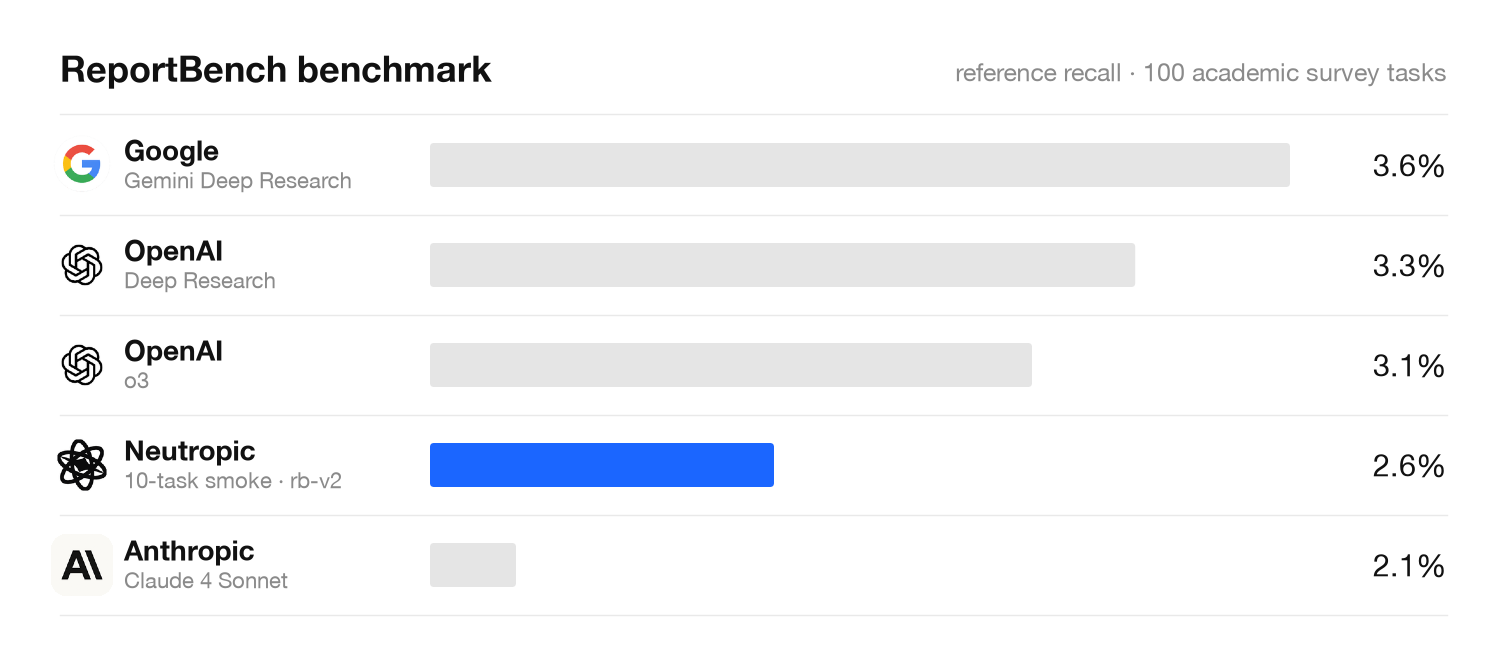
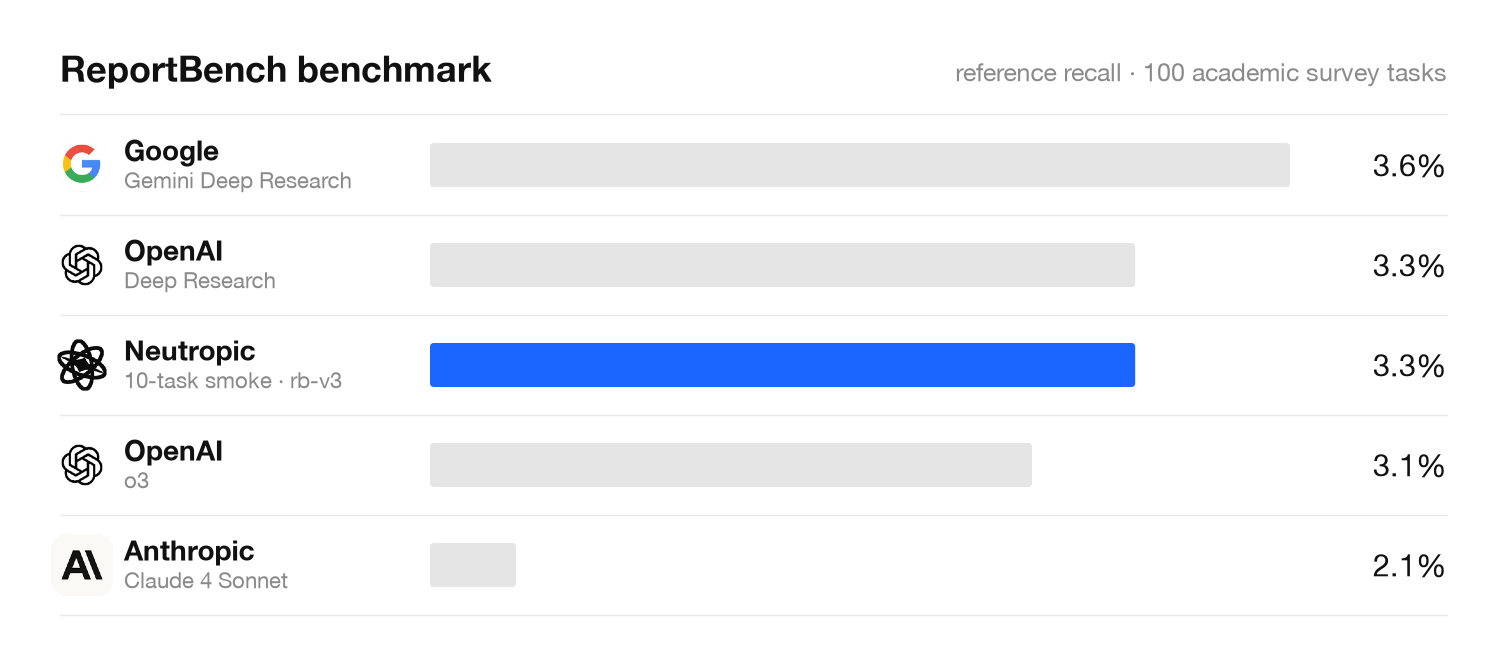
Add ReportBench rb-v3 smoke results

diff --git a/reportbench/results/rb-v3-smoke10/README.md b/reportbench/results/rb-v3-smoke10/README.md
@@ -1,0 +1,46 @@
+# rb-v3 — 10-task smoke, "true full" preset (WS0 measurement fix; L1, 2026-09-14)
+
+Same first 10 tasks as `rb-v1-smoke10` / `rb-v2-smoke10`, production core, Gemini. Changes vs v2 (from
+`docs/benchmark-improvement-plan.md` WS0): the `full` preset is now the product's **Deep** effort (deep second research
+pass, reviewer forced, 48 steps) and the runner actually passes a review provider — v1/v2 rows never ran the reviewer.
+Also: the eval token is refreshed in place by a background thread every 20 min (tasks now take 20–100 min), and the
+runner appends each row as it finishes. **Smoke, not a result** — 10 of 100 tasks, internal (L1) judge.
+
+All 10 tasks scored (v2: 8). Mean P 0.182 / R 0.033 / F1 0.055; cite-match 0.78, cited-statement accuracy 0.89.
+v2 on its 8 scored tasks: P 0.155 / R 0.026 / F1 0.042, cite-match 0.60, accuracy 0.80. Total $2.69 (v2 $3.56),
+mean 49 min per task (v2 21 min).
+
+| task | prompt cutoff | refs | matched/gold | P | R | F1 | cite-match | cited acc | s | $ | v2 P / R |
+|---|---|---|---|---|---|---|---|---|---|---|---|
+| 2312.04861 | April 2025 | 30 | 14/277 | 0.467 | 0.054 | 0.097 | 0.55 | 0.775 | 1636 | 0.47 | 0.231 / 0.022 |
+| 2308.06419 | — | 20 | 6/106 | 0.300 | 0.057 | 0.095 | 0.65 | 0.825 | 1623 | 0.21 | 0.056 / 0.009 |
+| 2308.15985 | August 2023 | 10 | 2/155 | 0.200 | 0.013 | 0.024 | 0.75 | 0.875 | 2536 | 0.20 | 0.333 / 0.045 |
+| 2402.10079 | March 2025 | 26 | 3/148 | 0.115 | 0.020 | 0.035 | 0.70 | 0.850 | 1206 | 0.25 | 0.222 / 0.020 |
+| 2108.09522 | August 2021 | 15 | 10/47 | 0.667 | 0.170 | 0.271 | 0.67 | 0.833 | 3482 | 0.24 | failed |
+| 2108.09091 | August 2021 | 12 | 0/83 | 0.000 | 0.000 | 0.000 | 0.90 | 0.950 | 3871 | 0.26 | 0.059 / 0.036 |
+| 2006.00648 | November 2020 | 8 | 0/60 | 0.000 | 0.000 | 0.000 | 0.75 | 0.875 | 1969 | 0.40 | 0.200 / 0.017 |
+| 2204.07974 | April 2022 | 27 | 2/104 | 0.074 | 0.019 | 0.030 | 1.00 | 1.000 | 5997 | 0.24 | failed |
+| 2302.10588 | — | 6 | 0/65 | 0.000 | 0.000 | 0.000 | 0.80 | 0.900 | 3192 | 0.17 | 0.100 / 0.046 |
+| 2408.14199 | November 2024 | 5 | 0/64 | 0.000 | 0.000 | 0.000 | 1.00 | 1.000 | 3982 | 0.24 | 0.040 / 0.016 |
+| **mean (10 scored)** | | 15.9 | | **0.182** | **0.033** | 0.055 | 0.78 | 0.888 | 2949 | 0.27 | 0.155 / 0.026 (8) |
+## What moved
+
+- **Precision and citation faithfulness rose across the board** (P 0.155 → 0.182, cite-match 0.60 → 0.78, cited-statement
+  accuracy 0.80 → 0.89): the reviewer + deep pass prune weakly supported statements and unused sources. The reference list
+  now contains only sources actually cited (15.9 per report vs 22.1), which is also why recall barely moved.
+- **Best task ever**: 2108.09522 (spatio-temporal traffic, 47 gold refs) P 0.667 / R 0.170 — every one of its 15
+  references predates the prompt's cutoff (August 2021).
+- **Four tasks scored zero** (2108.09091, 2006.00648, 2302.10588, 2408.14199). Root causes, from the reports:
+  1. **The prompt's date constraint is ignored.** 8 of 10 prompts say "all referenced papers must have been published
+     before <month year>"; 41 of the 172 cited references (24 %) are newer than that — 9/12 on 2108.09091, 25/37 on
+     2204.07974, 5/13 on 2308.15985. Those are exactly the worst-scoring tasks. The retrieval stack ranks by relevance /
+     recency with no year filter, and nothing drops newer sources at citation time.
+  2. **Off-topic and tooling references** survive into the bibliography (EEG emotion recognition and MOOC-dropout papers in a
+     traffic-forecasting survey; NumPy and the PRISMA statement in a LiDAR-localization survey).
+  3. **Too few citations** on some tasks (5–8 references against 60–65 gold) — the deep pass trims rather than widens.
+- **Time doubled for a small gain**: the deep pass + reviewer take tasks from 21 to 49 min (one task 100 min). At 100 tasks
+  that is ~80 h per run — the 10-minute task budget (WS4) and a wider reference budget with citation snowballing (WS1)
+  are the next levers, together with enforcing the prompt's date window (new WS1 item).
+
+Files: `full.summary.json` (runner summary). Per-task rows with trajectories stay in the API repo's `benchmark_runs/`
+(not published).

diff --git a/README.md b/README.md
@@ -13,7 +13,7 @@ together track the agent's maturity from factual search to end-to-end science:
 | 04 · Science | [AstaBench](https://allenai.org/asta/bench) | End-to-end scientific agent — literature, code & execution, data analysis, discovery (2,400+ problems) | [`astabench/`](./astabench/) |
 
 > **Status (2026-09-14):** SimpleQA has measured results on a fixed 100-question
-> subset. ReportBench (two runs), DeepResearch Bench II and AstaBench LitQA2 have
+> subset. ReportBench (three runs), DeepResearch Bench II and AstaBench LitQA2 have
 > **10-task smokes** (L1 — wiring and cost checks, not results to quote). Every
 > "Projected" table is a target, not a measurement, and is replaced by measured
 > values as runs land in `results/`.
@@ -21,7 +21,7 @@ together track the agent's maturity from factual search to end-to-end science:
 > | Benchmark | Current (L1 smoke) | Best published |
 > |-----------|--------------------|----------------|
 > | SimpleQA | 0.90 accuracy (subset 100) | 95.3 % |
-> | ReportBench | recall 0.026 · precision 0.155 (rb-v2, 8 of 10 tasks) | recall 0.036 (Gemini DR) · precision 0.385 (OpenAI DR) |
+> | ReportBench | recall 0.033 · precision 0.182 (rb-v3, 10 tasks) | recall 0.036 (Gemini DR) · precision 0.385 (OpenAI DR) |
 > | DeepResearch Bench II | 10.7 internal judge · **13.6 official GPT-5.5 judge** (10 tasks) | 64.38 |
 > | AstaBench | LitQA2 accuracy 0.30 (10 questions, 1 of 11 tasks) | overall 58.0 % |
 
@@ -126,11 +126,13 @@ That is the axis Neutropic targets.
 | Run | Row | n | Precision | Recall | F1 | Citation match | Cited acc. | refs/task | s/item | $/item |
 |-----|-----|---|-----------|--------|----|----------------|------------|-----------|--------|--------|
 | [`rb-v1-smoke10`](./reportbench/results/rb-v1-smoke10/) | `full` | 10 | 0.116 | 0.017 | 0.028 | 0.65 | 0.82 | 22.5 | 840 | 0.34 |
-| [`rb-v2-smoke10`](./reportbench/results/rb-v2-smoke10/) | `full` + Semantic Scholar key, single container | 8 of 10 | **0.155** | **0.026** | 0.042 | 0.60 | 0.80 | 22.1 | 1,255 | 0.36 |
+| [`rb-v2-smoke10`](./reportbench/results/rb-v2-smoke10/) | `full` + Semantic Scholar key, single container | 8 of 10 | 0.155 | 0.026 | 0.042 | 0.60 | 0.80 | 22.1 | 1,255 | 0.36 |
+| [`rb-v3-smoke10`](./reportbench/results/rb-v3-smoke10/) | `full` = product Deep (deep pass + reviewer wired, WS0) | 10 | **0.182** | **0.033** | 0.055 | 0.78 | 0.89 | 15.9 | 2,949 | 0.27 |
 
 - Deterministic reference matching against the expert list (title / arXiv id / DOI); citation judgements by the Gemini grader.
 - `rb-v1`: the first five tasks score P 0.13–0.25 / R 0.018–0.038 — around the published Deep Research systems — the last five near zero. Every task hit Semantic Scholar 429 and arXiv timeouts (no API key, two containers in parallel), so the CS-heavy surveys were answered from ERIC / Europe PMC results.
 - `rb-v2` (same tasks, Semantic Scholar key, one container, larger HTTP budget): the three tasks that scored zero in v1 now recall 1–3 expert references each; on the 8 scored tasks P/R rose from 0.110/0.017 to 0.155/0.026. Two tasks lost their report because the eval token expired mid-task (runs now take ~21 min per task; re-auth interval lowered to 20 min). OpenAlex 429 / arXiv timeouts persist — the next lever is reference budget and citation snowballing, not more retries.
+- `rb-v3` (same tasks, the `full` preset now equals the product's Deep effort and the reviewer actually runs — earlier rows never invoked it; eval token refreshed in-task): all 10 tasks scored, P/R 0.182/0.033, citation match 0.60 → 0.78 and cited-statement accuracy 0.80 → 0.89. Best single task P 0.667 / R 0.170. Four tasks scored zero: 24 % of all cited references are newer than the prompt's explicit "published before <date>" cutoff (no year filter in retrieval), off-topic/tooling references (NumPy, PRISMA) reach the bibliography, and some reports cite only 5–8 sources. Tasks take 49 min on average (one 100 min), so the next work is the date window + reference budget/snowballing (WS1) and a per-task time budget (WS4).
 
 ### Projected — next runs
 
